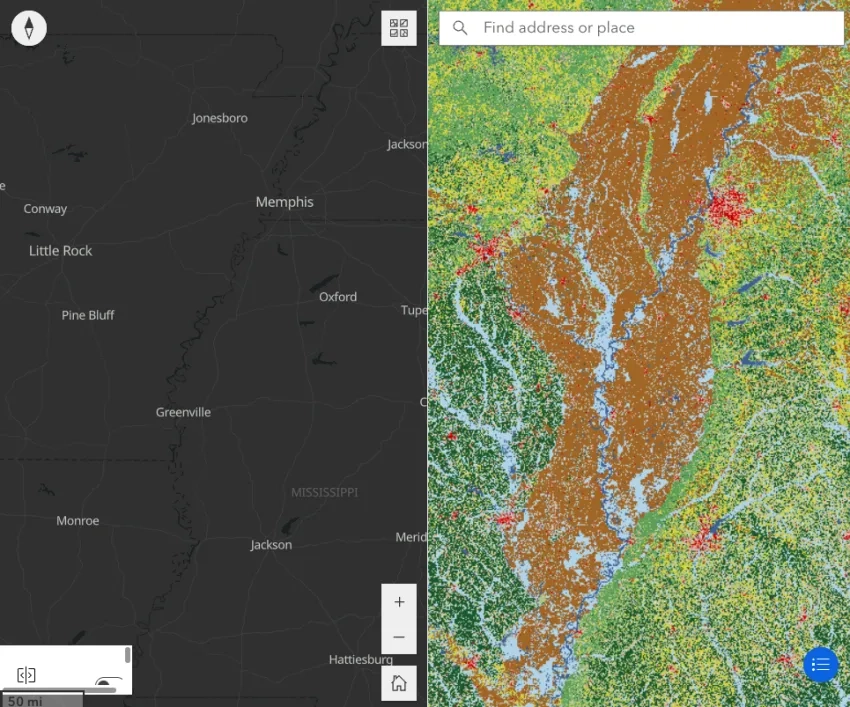
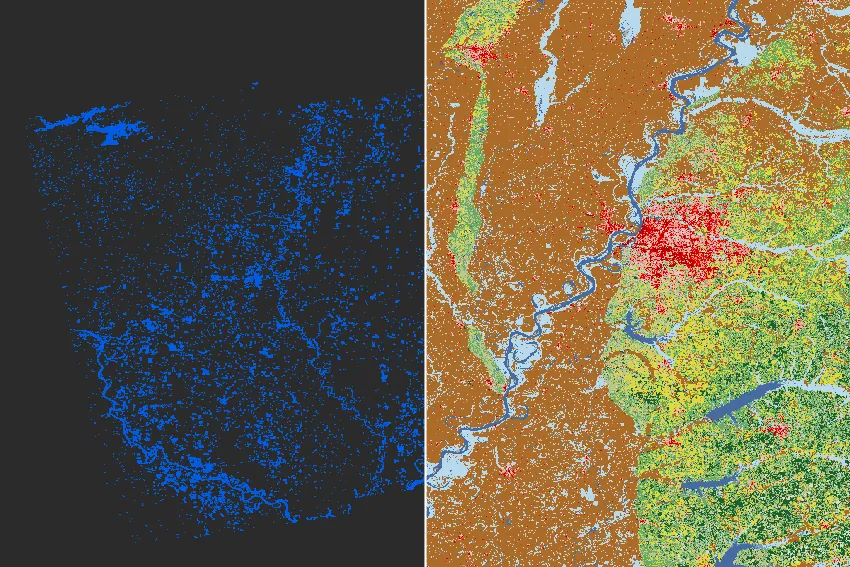
fix(datastory): rebuild the HydroSAR figure from STAC at a date with data
The figure was a screenshot of the Disasters Mapping Portal showing April
2025. HydroSAR in the dev STAC only runs to 2024-11-23, so that date has no
items and the map could not be reproduced there.

Rebuilt from the archive instead: HydroSAR water extents over the Mississippi
Delta on 2024-09-06, paired with NLCD land cover for the same footprint, both
rendered through titiler and cropped to the same bbox. Caption and alt updated
to match what is actually shown.

NLCD comes from openveda.cloud rather than the disasters STAC, which is why
this stays a static image for now.

diff --git a/app/site-config/datastory/datastory__tools-you-can-use-mapping-flood-impacts.ts b/app/site-config/datastory/datastory__tools-you-can-use-mapping-flood-impacts.ts
@@ -37,11 +37,11 @@ export const DATASTORY__TOOLS_YOU_CAN_USE_MAPPING_FLOOD_IMPACTS: DataStoryConten
     {
       type: "image",
       src: "/img/datastory/mapping-flood-impacts__hydrosar.webp",
-      alt: "Example of HydroSAR data from April 2025 severe weather in the U.S.",
+      alt: "Side-by-side maps of the Mississippi Delta: HydroSAR surface water extents in blue on the left, USGS National Land Cover Database classifications on the right",
       width: 850,
-      height: 707,
+      height: 567,
       caption:
-        "The Copernicus Sentinel-1 satellite collected synthetic aperture radar (SAR) imagery over the southeast and central U.S. from April 4-9, 2025, capturing flooding from severe storms. On the left, HydroSAR surface water extents are shown in blue. These are overlaid on VH cross-pol SAR imagery (grayscale), in which still water and other flat surfaces appear black, while diffuse scatterers like vegetation appear in lighter shades. On the right, USGS National Land Cover Database data indicates whether affected areas may be developed, cropland, forest, or other classes of land use. Credits: (left) NASA Disasters Program, Alaska Satellite Facility. Contains modified Copernicus Sentinel data (2025) processed by ESA. (right) US Geologic Survey National Land Cover Database 2019 as published by U.S. Environmental Protection Agency, Office of Mission Support; Data Steward: Multi-resolution Land Characteristics Consortium.",
+        "Sentinel-1 HydroSAR surface water extents (left, blue) over the Mississippi Delta on Sept. 6, 2024, shown against USGS National Land Cover Database classifications for the same area (right), where brown indicates cropland, green forest, red developed land, and blue open water. Pairing observed water extent with land cover indicates whether flooding is reaching croplands, communities, or infrastructure. Credits: NASA Disasters Program, Alaska Satellite Facility; USGS National Land Cover Database 2021.",
     },
     {
       type: "list",
